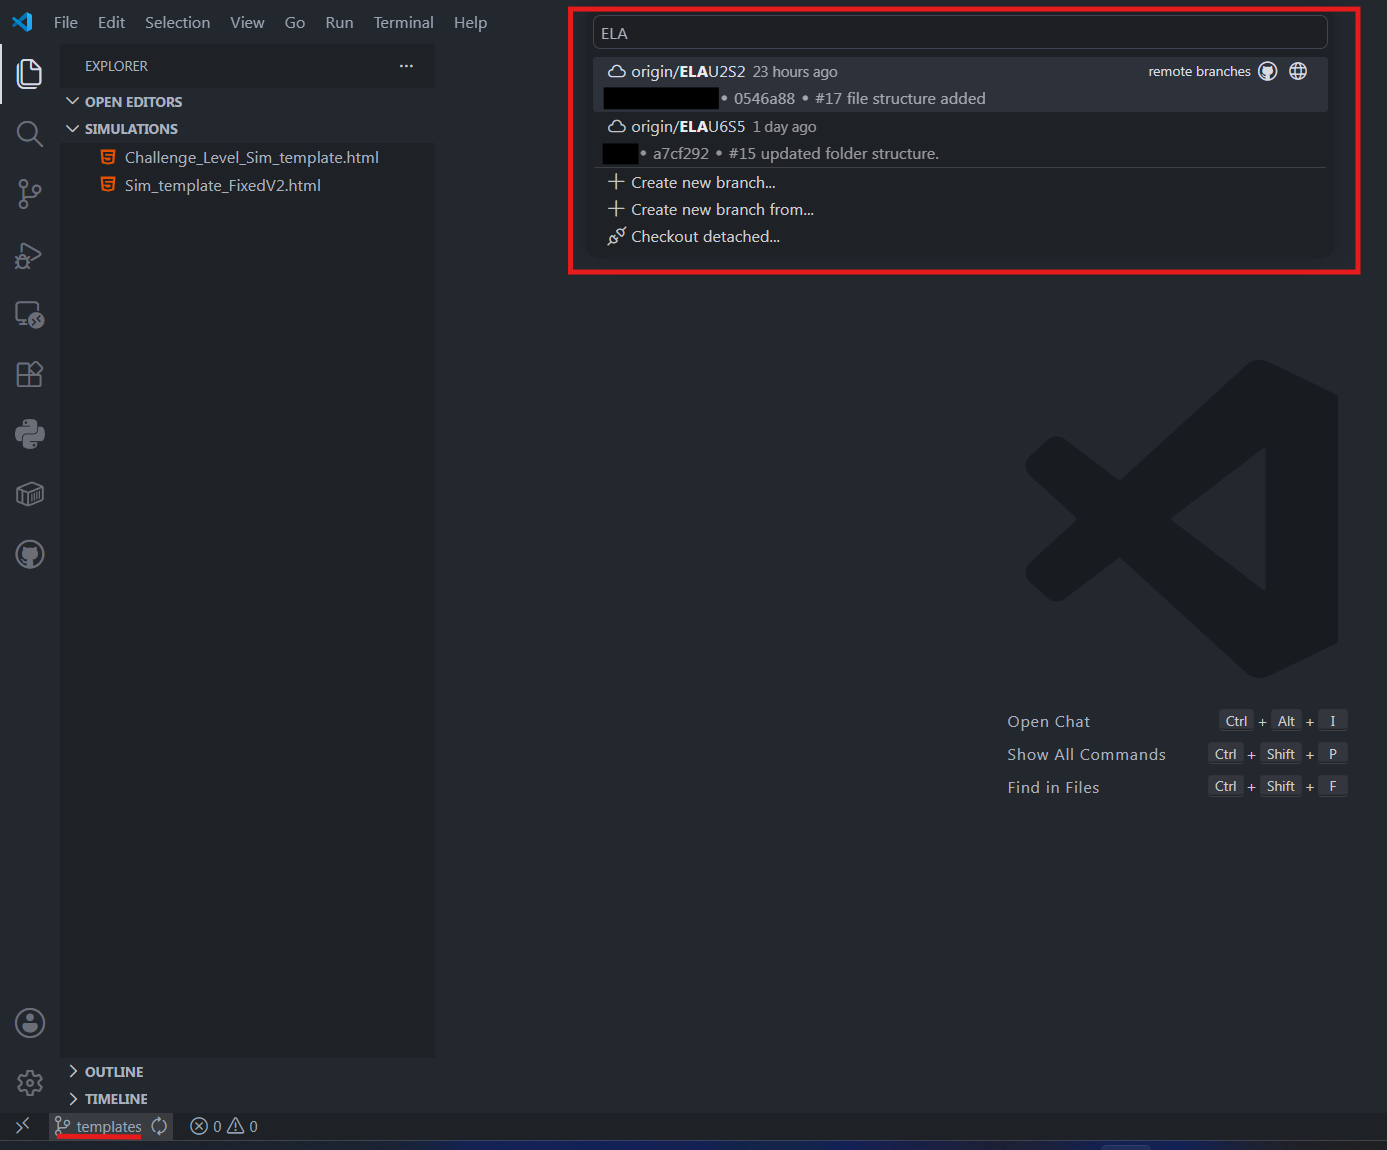
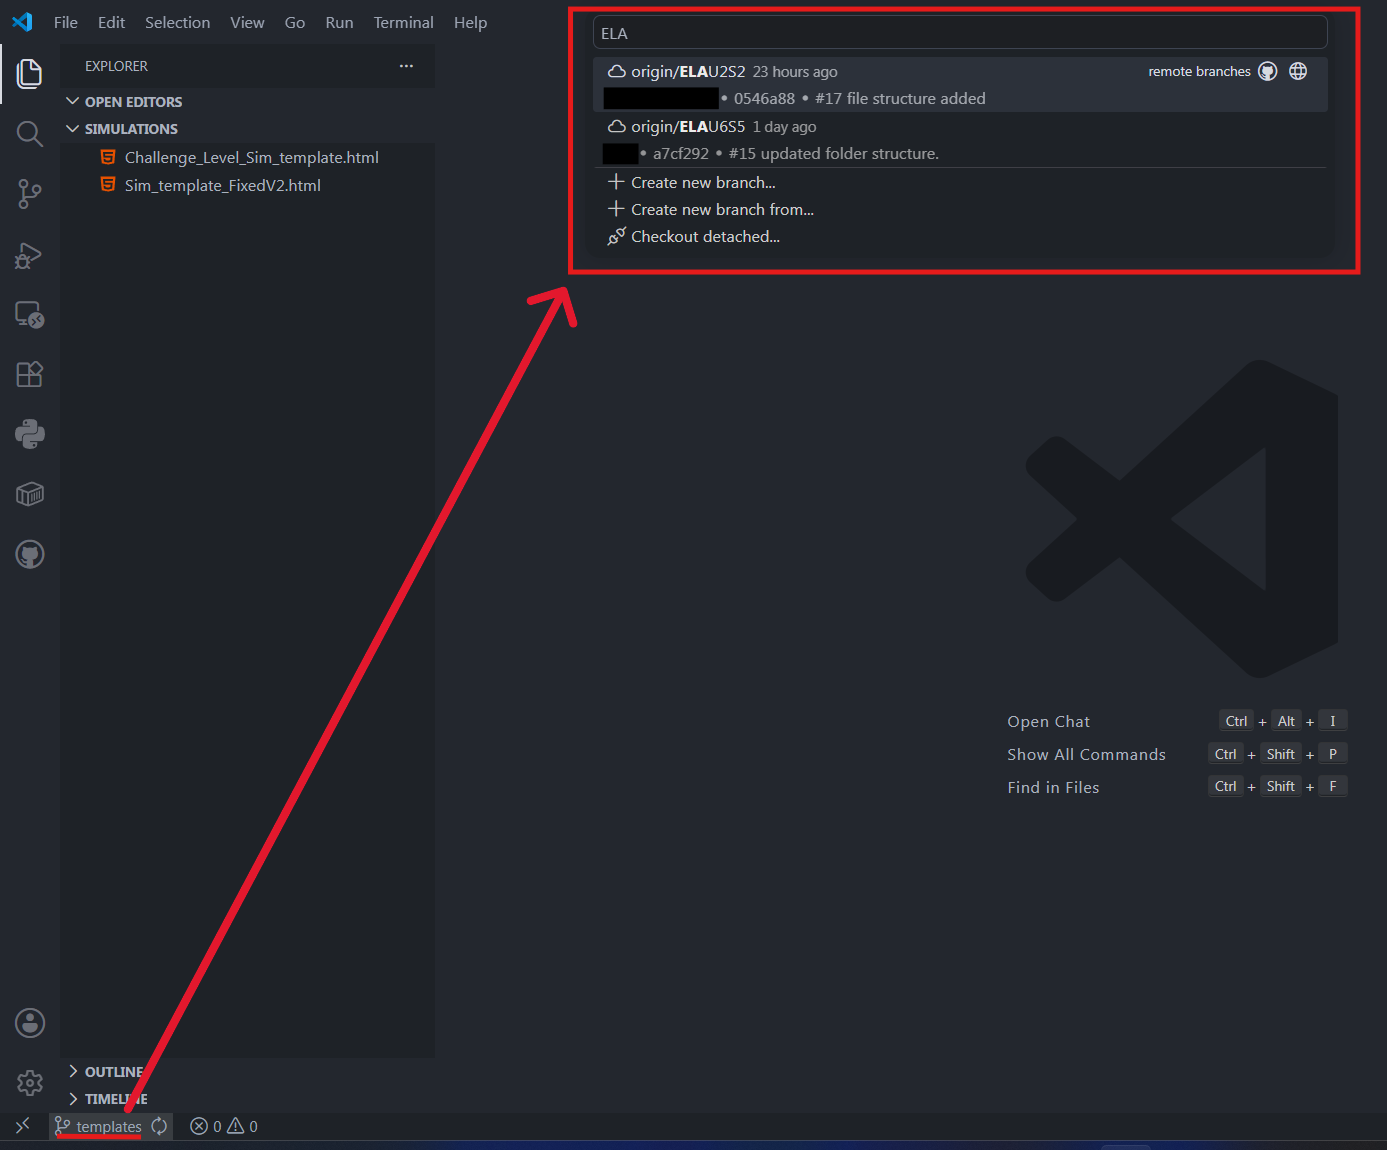
Added live preview info

diff --git a/README.md b/README.md
@@ -80,6 +80,11 @@ Steps related to your role are shown and linked in the table below
      - Go to the Extensions tab in the sidebar and search for "GitHub Pull Requests" </br>  
      <img title="" src="./README-assets/2026-05-14-103813.png" alt="" data-align="center">
      - Install the extension
+   - Install the Live Preview extension.
+     - Go to the Extensions tab in the sidebar and search for "Live Preview" </br>  
+     <img title="" src="./README-assets/2026-05-15-112642.png" alt="" data-align="center">
+     - Install the extension
+
 
 # 2. Cloning The Repository
 
@@ -290,6 +295,10 @@ You can commit changes both within the terminal and on VSCode. We will go throug
 2. Go to the issue and set the label to **review needed**
 
 3. Repeat steps as needed
+   
+4. While developing, you can see the simulation using the Live Preview extension, right-click the sim file and select the "Show Preview" button
+   
+   <img title="" src="./README-assets/2026-05-15-121859.png" alt="" data-align="center">
 
 ## 8.2. VSCode
 
@@ -370,7 +379,11 @@ git push origin {branch-name}
 
    <img title="" src="./README-assets/4b83c98699ce9167a49126e2683c61b9263214d4.png" alt="" data-align="center">
 
-5. Leave a comment starting with the commit hash so that it links to the specific commit and change the label to **changes needed**
+5. You can test the simulation using the VSCode Live Preview extension, right-click the sim file and select the "Show Preview" button
+   
+   <img title="" src="./README-assets/2026-05-15-121859.png" alt="" data-align="center">
+
+6. Leave a comment starting with the commit hash so that it links to the specific commit and change the label to **changes needed**
 
    <img title="" src="./README-assets/ed3f5a637f056f1d1c9b702f508f10a32dc56b38.png" alt="" data-align="center">
 